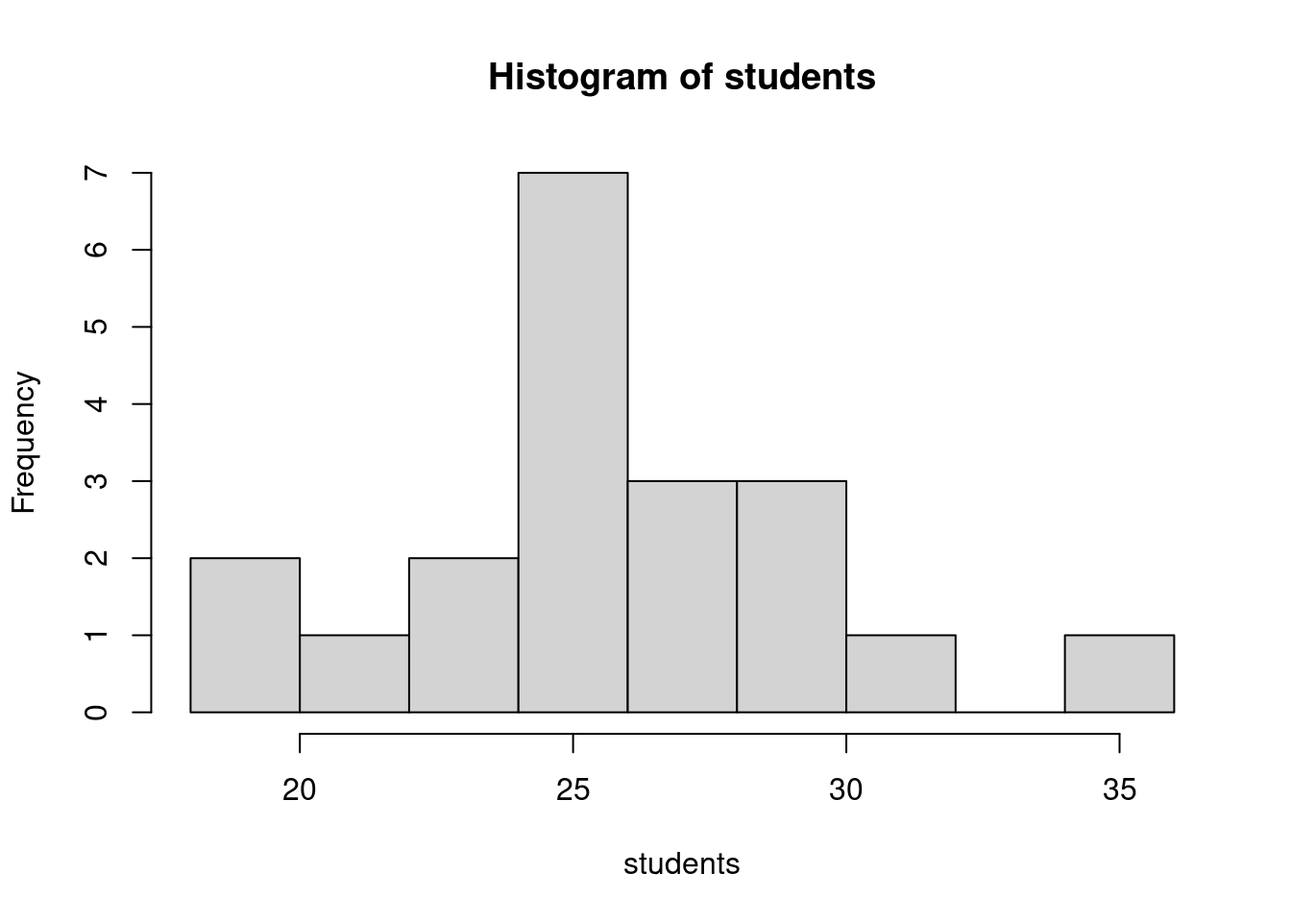
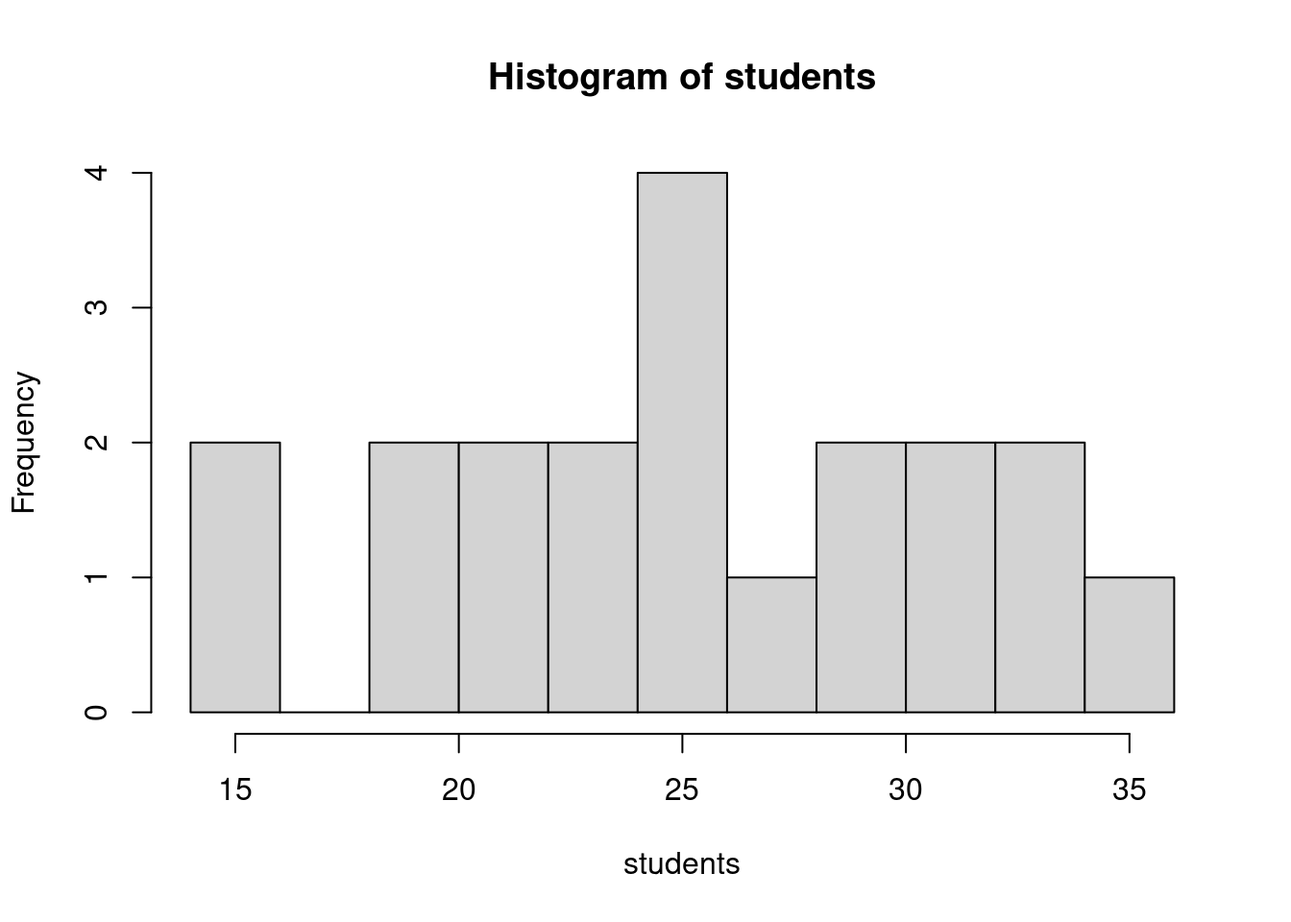
Updates for categorical data

diff --git a/_book/what-is-statistics.html b/_book/what-is-statistics.html
@@ -24,7 +24,7 @@
 <meta name="author" content="Virgil U Pierce" />
 
 
-<meta name="date" content="2021-05-07" />
+<meta name="date" content="2021-05-11" />
 
   <meta name="viewport" content="width=device-width, initial-scale=1" />
   <meta name="apple-mobile-web-app-capable" content="yes" />
@@ -168,7 +168,13 @@ code span.wa { color: #60a0b0; font-weight: bold; font-style: italic; } /* Warni
 <li class="chapter" data-level="3.2.1" data-path="what-is-statistics.html"><a href="what-is-statistics.html#histograms"><i class="fa fa-check"></i><b>3.2.1</b> Histograms</a></li>
 <li class="chapter" data-level="3.2.2" data-path="what-is-statistics.html"><a href="what-is-statistics.html#boxplot"><i class="fa fa-check"></i><b>3.2.2</b> BoxPlot</a></li>
 </ul></li>
-<li class="chapter" data-level="3.3" data-path="what-is-statistics.html"><a href="what-is-statistics.html#numerical-versus-categorical-data"><i class="fa fa-check"></i><b>3.3</b> Numerical versus Categorical Data</a></li>
+<li class="chapter" data-level="3.3" data-path="what-is-statistics.html"><a href="what-is-statistics.html#numerical-versus-categorical-data"><i class="fa fa-check"></i><b>3.3</b> Numerical versus Categorical Data</a>
+<ul>
+<li class="chapter" data-level="3.3.1" data-path="what-is-statistics.html"><a href="what-is-statistics.html#list-of-features"><i class="fa fa-check"></i><b>3.3.1</b> List of features</a></li>
+<li class="chapter" data-level="3.3.2" data-path="what-is-statistics.html"><a href="what-is-statistics.html#frequencies"><i class="fa fa-check"></i><b>3.3.2</b> Frequencies</a></li>
+<li class="chapter" data-level="3.3.3" data-path="what-is-statistics.html"><a href="what-is-statistics.html#proportions"><i class="fa fa-check"></i><b>3.3.3</b> Proportions</a></li>
+<li class="chapter" data-level="3.3.4" data-path="what-is-statistics.html"><a href="what-is-statistics.html#charts"><i class="fa fa-check"></i><b>3.3.4</b> Charts</a></li>
+</ul></li>
 </ul></li>
 </ul>
 
@@ -203,6 +209,7 @@ code span.wa { color: #60a0b0; font-weight: bold; font-style: italic; } /* Warni
 <li>R is a purpose built statistics software. It is designed to do that really well.</li>
 <li>R arguably is the best tool for producing good looking figures suitable for publications. The figures are easy to manipulate and adjust. Most importantly it is really easy to have your figures be consistently formatted, something that is much harder with spreadsheets.</li>
 <li>R includes a markdown language for creating nice looking notebooks: It can be used as an all in one publication tool to produce a report or paper with statistical analysis.</li>
+<li>The markdown language includes LaTex for typsetting mathematics: <span class="math display">\[ \int_a^b f(x) dx \]</span></li>
 <li>R is an industry standard tool for doing statistics.</li>
 </ul>
 <p>and most importantly</p>
@@ -215,7 +222,7 @@ code span.wa { color: #60a0b0; font-weight: bold; font-style: italic; } /* Warni
 <p>To get started:</p>
 <ol style="list-style-type: decimal">
 <li><p><strong>If you are using a Mac or PC</strong> you should download a copy of RStudio from <a href="https://www.rstudio.com/products/rstudio/" class="uri">https://www.rstudio.com/products/rstudio/</a> the free version is all you will need. This includes a copy of R itself - Rstudio is a tool for interacting with R to make some of our tasks easier.</p></li>
-<li><p><strong>If you are using a Chromebook or want to use R on a tablet</strong> I have two options for you:</p></li>
+<li><p><strong>If you are using a Chromebook, want to use R on a tablet, or just don’t want to install it</strong> I have two options for you:</p></li>
 </ol>
 <ol style="list-style-type: lower-alpha">
 <li>Cocalc provides an online interface that lets you issue R commands. It also includes a markdown language so you will be able to use it to prepare the documents for class. You can reach it here: <a href="https://cocalc.com/" class="uri">https://cocalc.com/</a> you will need to create an account.</li>
@@ -231,13 +238,13 @@ code span.wa { color: #60a0b0; font-weight: bold; font-style: italic; } /* Warni
 <li>an easy way to save your work to return to it later or to copy and paste it to a new notebook.</li>
 <li>the ability to add markdown explaining what you are doing.</li>
 </ul>
-<p>The button on the top-left of the tool bar is for openning new documents, click the triangle next to it and choose “New Notebook” form the menu. RStudio helpfully inserts some information setting up your new notebook. You can adjust it as you wish. You can save the document from the file menu or using the toolbar buttons. RStudio has provided an example of how to put in Markdown language, and how to put in R commands. You execute a section of R commands but putting the cursor inside of it and pressing “Control+Enter”. Try it now on the <em>plot(cars)</em> command.</p>
+<p>The button on the top-left of the tool bar is for openning new documents, click the triangle next to it and choose “New Notebook” form the menu. RStudio helpfully inserts some information setting up your new notebook. You can adjust it as you wish. You can save the document from the file menu or using the toolbar buttons. RStudio has provided an example of how to put in Markdown language, and how to put in R commands. You execute a section of R commands but putting the cursor inside of it and pressing “Control+Enter” (or on a mac “Command+Enter”, if using Cocalc you will need to press “Shift+Enter”). Try it now on the <em>plot(cars)</em> command.</p>
 <div class="sourceCode" id="cb2"><pre class="sourceCode r"><code class="sourceCode r"><span id="cb2-1"><a href="what-is-statistics.html#cb2-1" aria-hidden="true" tabindex="-1"></a><span class="fu">plot</span>(cars)</span></code></pre></div>
 <p><img src="_main_files/figure-html/unnamed-chunk-2-1.png" width="672" /></p>
 </div>
 <div id="a-few-words-about-programming-languages" class="section level3" number="3.1.3">
 <h3><span class="header-section-number">3.1.3</span> A few words about programming languages</h3>
-<p>Before we continue with the <em>Probability and Statistics</em> I want to just add that learning programming languages is a powerful tool to help your students advance in their thinking about mathematics, one that I worry we do not spend enough time working with students on. At UNC one of my main goals for my tenure as School Director is to incorporate Python and R into the undergraduate mathematics curriculum wherever we can. A key part of learning a programming language, or more accurately, the only thing that has ever worked for me is having a problem I am interested in that needs solving. Statistics for myself, I hope for you by the end of this course, and for your students could be that problem that motivates learning some programing.</p>
+<p>Before we continue with the <em>Probability and Statistics</em> I want to just add that learning programming languages is a powerful tool to help your students advance in their thinking about mathematics, one that I worry we do not spend enough time working with students on. At UNC one of my main goals for my tenure as School Director is to incorporate Python and R into the undergraduate mathematics curriculum wherever we can. A key part of learning a programming language, or more accurately, the only thing that has ever worked for me is having a problem I am interested in that needs solving. Statistics for myself, I hope for you by the end of this course, and for your students could be that problem that motivates learning some programming.</p>
 <p>Independently of all of that R is a great language to start with for the following reasons:</p>
 <ol style="list-style-type: decimal">
 <li>Because R is so fundamentally focused on statistics and visualizations of data, it is simpler and more compact than a general language.</li>
@@ -257,22 +264,23 @@ While I am collecting this data you can reflect on this funny musing. I grew up 
 <span id="cb3-5"><a href="what-is-statistics.html#cb3-5" aria-hidden="true" tabindex="-1"></a><span class="co"># students &lt;- {} </span></span>
 <span id="cb3-6"><a href="what-is-statistics.html#cb3-6" aria-hidden="true" tabindex="-1"></a></span>
 <span id="cb3-7"><a href="what-is-statistics.html#cb3-7" aria-hidden="true" tabindex="-1"></a>students</span></code></pre></div>
-<pre><code>##  [1] 25 25 30 19 23 31 29 27 20 26 26 25 25 23 30 35 28 25 22 27</code></pre>
+<pre><code>##  [1] 31 26 19 21 34 14 30 19 26 33 25 21 36 27 14 31 26 23 29 24</code></pre>
 <p><em>R Notes</em>: lists in R are enclosed in <em>curly braces</em> and each member of the list is separated by a <em>semi-colon</em> or a space; note I think leaving the space is bad practice and recommend not using that feature. In this case our list is a collection of integers. Lists can more generally be numbers or strings or even lists of lists.</p>
 <p>Comments in commands start with <em>hash symbols</em>.</p>
-<p>Another syntax note: R uses both = and &lt;- for assignment. They both work as you would expect, however &lt;- has some nice positives in the detailed differences and it is worth getting into the habit of using it.</p>
+<p>Another syntax note: R uses both = and &lt;- for assignment though they have slightly different meanings. They both work as you would expect, however &lt;- has some nice positives in the detailed differences and it is worth getting into the habit of using it.</p>
 <p><em>RStudio Note</em>: You might notice that the variable we have just created has appeared in the upper-right quadrant of RStudio.</p>
 <div id="summary-statistics" class="section level4" number="3.1.4.1">
 <h4><span class="header-section-number">3.1.4.1</span> Summary Statistics</h4>
 <p>To get started we can use <em>summary</em> to get an overview of what our list of student enrollments look like. Review the meaning of each of these.</p>
 <div class="sourceCode" id="cb5"><pre class="sourceCode r"><code class="sourceCode r"><span id="cb5-1"><a href="what-is-statistics.html#cb5-1" aria-hidden="true" tabindex="-1"></a><span class="fu">summary</span>(students)</span></code></pre></div>
 <pre><code>##    Min. 1st Qu.  Median    Mean 3rd Qu.    Max. 
-##   19.00   24.50   25.50   26.05   28.25   35.00</code></pre>
+##   14.00   21.00   26.00   25.45   30.25   36.00</code></pre>
 <p>Mean and Median are <em>measures of center</em>, while the quartiles are <em>measures of spread</em>. One measure of spread missing is the variance or its square root standard deviation:</p>
 <div class="sourceCode" id="cb7"><pre class="sourceCode r"><code class="sourceCode r"><span id="cb7-1"><a href="what-is-statistics.html#cb7-1" aria-hidden="true" tabindex="-1"></a><span class="fu">var</span>(students); <span class="fu">sqrt</span>(<span class="fu">var</span>(students))</span></code></pre></div>
-<pre><code>## [1] 14.57632</code></pre>
-<pre><code>## [1] 3.817894</code></pre>
-<p>The variance is computed by taking the sum of the square differences between the data and the mean and then dividing that by number of items minus one; we will explain why this is what we divide by later in class.</p>
+<pre><code>## [1] 38.57632</code></pre>
+<pre><code>## [1] 6.210983</code></pre>
+<p>The variance is computed by taking the sum of the square differences between the data and the mean and then dividing that by number of items minus one; we will explain why this is what we divide by later in class:
+<span class="math display">\[ S = \frac{1}{n-1} \sum_{j=1}^n (y_j - \bar{y} )^2 \]</span> where <span class="math inline">\(\bar{y}\)</span> is the mean of the sample made up of the <span class="math inline">\(\{ y_1, y_2, \dots, y_n \}\)</span>.</p>
 <p>In the code blocks below I will add some comments about what we are doing:</p>
 <div class="sourceCode" id="cb10"><pre class="sourceCode r"><code class="sourceCode r"><span id="cb10-1"><a href="what-is-statistics.html#cb10-1" aria-hidden="true" tabindex="-1"></a><span class="co"># define a variable for the mean we will consistently use bar for sample mean</span></span>
 <span id="cb10-2"><a href="what-is-statistics.html#cb10-2" aria-hidden="true" tabindex="-1"></a><span class="co"># again note I use the &lt;- assignment rather than =</span></span>
@@ -280,15 +288,17 @@ While I am collecting this data you can reflect on this funny musing. I grew up 
 <span id="cb10-4"><a href="what-is-statistics.html#cb10-4" aria-hidden="true" tabindex="-1"></a></span>
 <span id="cb10-5"><a href="what-is-statistics.html#cb10-5" aria-hidden="true" tabindex="-1"></a><span class="co"># R can then do the arithmetic and when we combine a list of numbers with a single number and square it, it knows what we mean.</span></span>
 <span id="cb10-6"><a href="what-is-statistics.html#cb10-6" aria-hidden="true" tabindex="-1"></a>(students <span class="sc">-</span> ybar)<span class="sc">^</span><span class="dv">2</span></span></code></pre></div>
-<pre><code>##  [1]  1.1025  1.1025 15.6025 49.7025  9.3025 24.5025  8.7025  0.9025 36.6025  0.0025  0.0025  1.1025  1.1025  9.3025 15.6025 80.1025  3.8025  1.1025 16.4025  0.9025</code></pre>
+<pre><code>##  [1]  30.8025   0.3025  41.6025  19.8025  73.1025 131.1025  20.7025  41.6025
+##  [9]   0.3025  57.0025   0.2025  19.8025 111.3025   2.4025 131.1025  30.8025
+## [17]   0.3025   6.0025  12.6025   2.1025</code></pre>
 <div class="sourceCode" id="cb12"><pre class="sourceCode r"><code class="sourceCode r"><span id="cb12-1"><a href="what-is-statistics.html#cb12-1" aria-hidden="true" tabindex="-1"></a><span class="co"># Then as we said, we sum over all of these and then divide by the number of them</span></span>
 <span id="cb12-2"><a href="what-is-statistics.html#cb12-2" aria-hidden="true" tabindex="-1"></a><span class="co"># minus 1</span></span>
 <span id="cb12-3"><a href="what-is-statistics.html#cb12-3" aria-hidden="true" tabindex="-1"></a></span>
 <span id="cb12-4"><a href="what-is-statistics.html#cb12-4" aria-hidden="true" tabindex="-1"></a><span class="fu">sum</span>( (students <span class="sc">-</span> ybar)<span class="sc">^</span><span class="dv">2</span> ) <span class="sc">/</span> ( <span class="fu">length</span>(students) <span class="sc">-</span> <span class="dv">1</span> )</span></code></pre></div>
-<pre><code>## [1] 14.57632</code></pre>
+<pre><code>## [1] 38.57632</code></pre>
 <p>Note why we compute variance in this way. We are trying to understand how far the data moves from the mean <span class="math inline">\(\bar{y}\)</span>. However we can’t just sum over the differences as that will just add up to zero:</p>
 <div class="sourceCode" id="cb14"><pre class="sourceCode r"><code class="sourceCode r"><span id="cb14-1"><a href="what-is-statistics.html#cb14-1" aria-hidden="true" tabindex="-1"></a><span class="fu">sum</span>(students <span class="sc">-</span> ybar )</span></code></pre></div>
-<pre><code>## [1] -1.421085e-14</code></pre>
+<pre><code>## [1] 1.421085e-14</code></pre>
 <p>We have choices though, we could sum over the absolute value and indeed that does give us a notion of spread. However the advantage of summing over the squares is that it brings in tools from Calculus that work with quadratic expressions but not with absolute value expressions. We then intend to take an average. For reasons we will justify later, it turns out the correct average to do is to divide by the size of our sample minus 1: <span class="math inline">\(n-1\)</span> is called the degrees of freedom (roughly computing <span class="math inline">\(\bar{y}\)</span> from the sample has used up one degree of freedom).</p>
 <p>Note the units on these two statistics: the variance is the average of the sum of the squares (by the number of degrees of freedom) so its units are the square of the units of our sample data (<em>students squared</em> in this case); and then the standard deviation is the square root of the variance and so has units of the original data (<em>students</em> in this case).</p>
 </div>
@@ -317,29 +327,140 @@ While I am collecting this data you can reflect on this funny musing. I grew up 
 <div id="numerical-versus-categorical-data" class="section level2" number="3.3">
 <h2><span class="header-section-number">3.3</span> Numerical versus Categorical Data</h2>
 <p>The class sizes data is an example of <em>numerical data</em>. Another type of data used frequently is <em>categorical cata</em>:</p>
-<p>Note if you are running this code, you will need to download the “Supermarket Transactions.xlsx” file from Github or here. We will also need to use the tidy package. You may need to install this package using</p>
-<div class="sourceCode" id="cb19"><pre class="sourceCode r"><code class="sourceCode r"><span id="cb19-1"><a href="what-is-statistics.html#cb19-1" aria-hidden="true" tabindex="-1"></a><span class="fu">install.packages</span>(<span class="st">&quot;tidyverse&quot;</span>);</span></code></pre></div>
-<pre><code>## Error in install.packages : Updating loaded packages</code></pre>
-<p>Then you will need to load the package:</p>
-<div class="sourceCode" id="cb21"><pre class="sourceCode r"><code class="sourceCode r"><span id="cb21-1"><a href="what-is-statistics.html#cb21-1" aria-hidden="true" tabindex="-1"></a><span class="fu">library</span>(readxl)</span>
-<span id="cb21-2"><a href="what-is-statistics.html#cb21-2" aria-hidden="true" tabindex="-1"></a><span class="fu">library</span>(ggplot2)</span></code></pre></div>
-<div class="sourceCode" id="cb22"><pre class="sourceCode r"><code class="sourceCode r"><span id="cb22-1"><a href="what-is-statistics.html#cb22-1" aria-hidden="true" tabindex="-1"></a>supermarket <span class="ot">&lt;-</span> <span class="fu">read_excel</span>(<span class="st">&quot;Supermarket Transactions.xlsx&quot;</span>, <span class="at">sheet =</span> <span class="dv">2</span>)</span>
-<span id="cb22-2"><a href="what-is-statistics.html#cb22-2" aria-hidden="true" tabindex="-1"></a>supermarket</span></code></pre></div>
+<p>Note if you are running this code, you will need to download the “Supermarket Transactions.xlsx” file from Github or here. We will also need to use the tidy package. You may need to install this package using <em>install.packages(“tidyverse”)</em>. Credit to UC Business Analytics R Programming Guide for this section, you can find the source here <a href="https://uc-r.github.io/descriptives_categorical" class="uri">https://uc-r.github.io/descriptives_categorical</a></p>
+<p>Then you will need to load the libraries:</p>
+<div class="sourceCode" id="cb19"><pre class="sourceCode r"><code class="sourceCode r"><span id="cb19-1"><a href="what-is-statistics.html#cb19-1" aria-hidden="true" tabindex="-1"></a><span class="fu">library</span>(readxl) <span class="co"># for reading Excel files</span></span>
+<span id="cb19-2"><a href="what-is-statistics.html#cb19-2" aria-hidden="true" tabindex="-1"></a><span class="fu">library</span>(ggplot2) <span class="co"># for making nice plots - part of the tidyverse</span></span></code></pre></div>
+<div class="sourceCode" id="cb20"><pre class="sourceCode r"><code class="sourceCode r"><span id="cb20-1"><a href="what-is-statistics.html#cb20-1" aria-hidden="true" tabindex="-1"></a>supermarket <span class="ot">&lt;-</span> <span class="fu">read_excel</span>(<span class="st">&quot;Supermarket Transactions.xlsx&quot;</span>, <span class="at">sheet =</span> <span class="dv">2</span>)</span>
+<span id="cb20-2"><a href="what-is-statistics.html#cb20-2" aria-hidden="true" tabindex="-1"></a>supermarket</span></code></pre></div>
 <pre><code>## # A tibble: 14,059 x 16
-##    Transaction `Purchase Date`     `Customer ID` Gender `Marital Status` Homeowner Children `Annual Income` City    `State or Provin… Country `Product Family` `Product Depart… `Product Catego…
-##          &lt;dbl&gt; &lt;dttm&gt;                      &lt;dbl&gt; &lt;chr&gt;  &lt;chr&gt;            &lt;chr&gt;        &lt;dbl&gt; &lt;chr&gt;           &lt;chr&gt;   &lt;chr&gt;             &lt;chr&gt;   &lt;chr&gt;            &lt;chr&gt;            &lt;chr&gt;           
-##  1           1 2011-12-18 00:00:00          7223 F      S                Y                2 $30K - $50K     Los An… CA                USA     Food             Snack Foods      Snack Foods     
-##  2           2 2011-12-20 00:00:00          7841 M      M                Y                5 $70K - $90K     Los An… CA                USA     Food             Produce          Vegetables      
-##  3           3 2011-12-21 00:00:00          8374 F      M                N                2 $50K - $70K     Bremer… WA                USA     Food             Snack Foods      Snack Foods     
-##  4           4 2011-12-21 00:00:00          9619 M      M                Y                3 $30K - $50K     Portla… OR                USA     Food             Snacks           Candy           
-##  5           5 2011-12-22 00:00:00          1900 F      S                Y                3 $130K - $150K   Beverl… CA                USA     Drink            Beverages        Carbonated Beve…
-##  6           6 2011-12-22 00:00:00          6696 F      M                Y                3 $10K - $30K     Beverl… CA                USA     Food             Deli             Side Dishes     
-##  7           7 2011-12-23 00:00:00          9673 M      S                Y                2 $30K - $50K     Salem   OR                USA     Food             Frozen Foods     Breakfast Foods 
-##  8           8 2011-12-25 00:00:00           354 F      M                Y                2 $150K +         Yakima  WA                USA     Food             Canned Foods     Canned Soup     
-##  9           9 2011-12-25 00:00:00          1293 M      M                Y                3 $10K - $30K     Bellin… WA                USA     Non-Consumable   Household        Cleaning Suppli…
-## 10          10 2011-12-25 00:00:00          7938 M      S                N                1 $50K - $70K     San Di… CA                USA     Non-Consumable   Health and Hygi… Pain Relievers  
-## # … with 14,049 more rows, and 2 more variables: Units Sold &lt;dbl&gt;, Revenue &lt;dbl&gt;</code></pre>
+##    Transaction `Purchase Date`     `Customer ID` Gender `Marital Status`
+##          &lt;dbl&gt; &lt;dttm&gt;                      &lt;dbl&gt; &lt;chr&gt;  &lt;chr&gt;           
+##  1           1 2011-12-18 00:00:00          7223 F      S               
+##  2           2 2011-12-20 00:00:00          7841 M      M               
+##  3           3 2011-12-21 00:00:00          8374 F      M               
+##  4           4 2011-12-21 00:00:00          9619 M      M               
+##  5           5 2011-12-22 00:00:00          1900 F      S               
+##  6           6 2011-12-22 00:00:00          6696 F      M               
+##  7           7 2011-12-23 00:00:00          9673 M      S               
+##  8           8 2011-12-25 00:00:00           354 F      M               
+##  9           9 2011-12-25 00:00:00          1293 M      M               
+## 10          10 2011-12-25 00:00:00          7938 M      S               
+## # … with 14,049 more rows, and 11 more variables: Homeowner &lt;chr&gt;,
+## #   Children &lt;dbl&gt;, Annual Income &lt;chr&gt;, City &lt;chr&gt;, State or Province &lt;chr&gt;,
+## #   Country &lt;chr&gt;, Product Family &lt;chr&gt;, Product Department &lt;chr&gt;,
+## #   Product Category &lt;chr&gt;, Units Sold &lt;dbl&gt;, Revenue &lt;dbl&gt;</code></pre>
+<p>A couple of notes are in order here before we continue: Note that this data set is made up of samples (rows) each of which has 10 features (columns). Some of the features are numerical - <em>Units Sold</em> and <em>Revenue</em>, some could be converted into numerical units if we are careful <em>Annual Income</em>, while others are purely categorical giving us just a description of the value. Also note there is a factor that looks numerical but for which it would probably be misleading to treat it as such.</p>
+<p>You will notice the note that the data set has ~14,049 rows: We can only deal with such datasets using a computer program. Without too much work we could find datasets that are too big for Excell and need to be analyzed using a software like R or Python.</p>
+<div id="list-of-features" class="section level3" number="3.3.1">
+<h3><span class="header-section-number">3.3.1</span> List of features</h3>
+<p>With a large data set it is helpful to list the the features we have:</p>
+<div class="sourceCode" id="cb22"><pre class="sourceCode r"><code class="sourceCode r"><span id="cb22-1"><a href="what-is-statistics.html#cb22-1" aria-hidden="true" tabindex="-1"></a><span class="fu">colnames</span>(supermarket)</span></code></pre></div>
+<pre><code>##  [1] &quot;Transaction&quot;        &quot;Purchase Date&quot;      &quot;Customer ID&quot;       
+##  [4] &quot;Gender&quot;             &quot;Marital Status&quot;     &quot;Homeowner&quot;         
+##  [7] &quot;Children&quot;           &quot;Annual Income&quot;      &quot;City&quot;              
+## [10] &quot;State or Province&quot;  &quot;Country&quot;            &quot;Product Family&quot;    
+## [13] &quot;Product Department&quot; &quot;Product Category&quot;   &quot;Units Sold&quot;        
+## [16] &quot;Revenue&quot;</code></pre>
+<p>We can use <em>sapply</em> to get information about the datatypes R has guessed for each column.</p>
+<div class="sourceCode" id="cb24"><pre class="sourceCode r"><code class="sourceCode r"><span id="cb24-1"><a href="what-is-statistics.html#cb24-1" aria-hidden="true" tabindex="-1"></a><span class="fu">sapply</span>(supermarket, class)</span></code></pre></div>
+<pre><code>## $Transaction
+## [1] &quot;numeric&quot;
+## 
+## $`Purchase Date`
+## [1] &quot;POSIXct&quot; &quot;POSIXt&quot; 
+## 
+## $`Customer ID`
+## [1] &quot;numeric&quot;
+## 
+## $Gender
+## [1] &quot;character&quot;
+## 
+## $`Marital Status`
+## [1] &quot;character&quot;
+## 
+## $Homeowner
+## [1] &quot;character&quot;
+## 
+## $Children
+## [1] &quot;numeric&quot;
+## 
+## $`Annual Income`
+## [1] &quot;character&quot;
+## 
+## $City
+## [1] &quot;character&quot;
+## 
+## $`State or Province`
+## [1] &quot;character&quot;
+## 
+## $Country
+## [1] &quot;character&quot;
+## 
+## $`Product Family`
+## [1] &quot;character&quot;
+## 
+## $`Product Department`
+## [1] &quot;character&quot;
+## 
+## $`Product Category`
+## [1] &quot;character&quot;
+## 
+## $`Units Sold`
+## [1] &quot;numeric&quot;
+## 
+## $Revenue
+## [1] &quot;numeric&quot;</code></pre>
+<p>Note I say that these are guesses. Depending on the spreadsheet the data came from these may or may not be correct. In particular it is not uncommon for numerical data to be incorrectly types as <em>character</em> data. R is effecient at cleaning data, however it is a step further than we want to go in this class, just be aware if you or your students start using data sets from the web you will often come upon this issue.</p>
+</div>
+<div id="frequencies" class="section level3" number="3.3.2">
+<h3><span class="header-section-number">3.3.2</span> Frequencies</h3>
+<p>We are going to make a contingency table for some of the features of this data. We can count how many members of the sample are in each category of a feature:</p>
+<div class="sourceCode" id="cb26"><pre class="sourceCode r"><code class="sourceCode r"><span id="cb26-1"><a href="what-is-statistics.html#cb26-1" aria-hidden="true" tabindex="-1"></a><span class="fu">table</span>(supermarket<span class="sc">$</span>Gender)</span></code></pre></div>
+<pre><code>## 
+##    F    M 
+## 7170 6889</code></pre>
+<p>Maybe we want to understand the relationship between the gender of a shopper and their marital status, for this we use a cross classification count:</p>
+<div class="sourceCode" id="cb28"><pre class="sourceCode r"><code class="sourceCode r"><span id="cb28-1"><a href="what-is-statistics.html#cb28-1" aria-hidden="true" tabindex="-1"></a><span class="co"># Note that because the feature Marital Status has a space in it, we have to use quotes to refer to it:</span></span>
+<span id="cb28-2"><a href="what-is-statistics.html#cb28-2" aria-hidden="true" tabindex="-1"></a><span class="fu">table</span>( supermarket<span class="sc">$</span><span class="st">`</span><span class="at">Marital Status</span><span class="st">`</span>, supermarket<span class="sc">$</span>Gender) </span></code></pre></div>
+<pre><code>##    
+##        F    M
+##   M 3602 3264
+##   S 3568 3625</code></pre>
+<p>We can even do multi dimensional tables, though there is a limit to what makes sense:</p>
+<div class="sourceCode" id="cb30"><pre class="sourceCode r"><code class="sourceCode r"><span id="cb30-1"><a href="what-is-statistics.html#cb30-1" aria-hidden="true" tabindex="-1"></a><span class="co"># Here to make this easier to read we are going to do the operation in two separate commands; </span></span>
+<span id="cb30-2"><a href="what-is-statistics.html#cb30-2" aria-hidden="true" tabindex="-1"></a><span class="co"># note the semi-colon indicating the end of the first command</span></span>
+<span id="cb30-3"><a href="what-is-statistics.html#cb30-3" aria-hidden="true" tabindex="-1"></a>table1 <span class="ot">&lt;-</span> <span class="fu">table</span>(supermarket<span class="sc">$</span><span class="st">`</span><span class="at">Marital Status</span><span class="st">`</span>, supermarket<span class="sc">$</span>Gender, supermarket<span class="sc">$</span><span class="st">`</span><span class="at">State or Province</span><span class="st">`</span>);</span>
+<span id="cb30-4"><a href="what-is-statistics.html#cb30-4" aria-hidden="true" tabindex="-1"></a></span>
+<span id="cb30-5"><a href="what-is-statistics.html#cb30-5" aria-hidden="true" tabindex="-1"></a><span class="fu">ftable</span>(table1)</span></code></pre></div>
+<pre><code>##        BC   CA   DF Guerrero Jalisco   OR Veracruz   WA Yucatan Zacatecas
+##                                                                          
+## M F   190  638  188       77      15  510      142 1166     200       476
+##   M   197  692  210       94       5  514      108 1160     129       155
+## S F   183  686  175      107      30  607      125 1134     164       357
+##   M   239  717  242      105      25  631       89 1107     161       309</code></pre>
+</div>
+<div id="proportions" class="section level3" number="3.3.3">
+<h3><span class="header-section-number">3.3.3</span> Proportions</h3>
+<p>Of course it is useful to think in terms of proportions of the data rather than the raw counts. We can do this by sending the result of a table command through the prop.table. Try it with one of the tables above:</p>
+<div class="sourceCode" id="cb32"><pre class="sourceCode r"><code class="sourceCode r"><span id="cb32-1"><a href="what-is-statistics.html#cb32-1" aria-hidden="true" tabindex="-1"></a>table2 <span class="ot">&lt;-</span> <span class="fu">table</span>(supermarket<span class="sc">$</span><span class="st">`</span><span class="at">Marital Status</span><span class="st">`</span>, supermarket<span class="sc">$</span>Gender);</span>
+<span id="cb32-2"><a href="what-is-statistics.html#cb32-2" aria-hidden="true" tabindex="-1"></a></span>
+<span id="cb32-3"><a href="what-is-statistics.html#cb32-3" aria-hidden="true" tabindex="-1"></a><span class="fu">prop.table</span>(table2)</span></code></pre></div>
+<pre><code>##    
+##             F         M
+##   M 0.2562060 0.2321644
+##   S 0.2537876 0.2578420</code></pre>
+</div>
+<div id="charts" class="section level3" number="3.3.4">
+<h3><span class="header-section-number">3.3.4</span> Charts</h3>
+<p>Visualizations are straightforward, a typical one would be a bar chart indicating visually the frequency counts:</p>
+<div class="sourceCode" id="cb34"><pre class="sourceCode r"><code class="sourceCode r"><span id="cb34-1"><a href="what-is-statistics.html#cb34-1" aria-hidden="true" tabindex="-1"></a><span class="co"># Note in this one the direction of the quotes matter</span></span>
+<span id="cb34-2"><a href="what-is-statistics.html#cb34-2" aria-hidden="true" tabindex="-1"></a><span class="fu">ggplot</span>(supermarket) <span class="sc">+</span> <span class="fu">geom_bar</span>(<span class="at">mapping =</span> <span class="fu">aes</span>(<span class="at">x=</span><span class="st">`</span><span class="at">State or Province</span><span class="st">`</span>)) <span class="sc">+</span> </span>
+<span id="cb34-3"><a href="what-is-statistics.html#cb34-3" aria-hidden="true" tabindex="-1"></a>  <span class="fu">theme</span>(<span class="at">axis.text.x=</span><span class="fu">element_text</span>(<span class="at">angle=</span><span class="dv">45</span>, <span class="at">hjust=</span><span class="dv">1</span>))</span></code></pre></div>
+<p><img src="_main_files/figure-html/unnamed-chunk-19-1.png" width="672" /></p>
+<p>Note that the labels, colors, and positions can all be set via commands.</p>
 
+</div>
 </div>
 </div>
             </section>

diff --git a/_book/index.html b/_book/index.html
@@ -24,7 +24,7 @@
 <meta name="author" content="Virgil U Pierce" />
 
 
-<meta name="date" content="2021-05-07" />
+<meta name="date" content="2021-05-11" />
 
   <meta name="viewport" content="width=device-width, initial-scale=1" />
   <meta name="apple-mobile-web-app-capable" content="yes" />
@@ -168,7 +168,13 @@ code span.wa { color: #60a0b0; font-weight: bold; font-style: italic; } /* Warni
 <li class="chapter" data-level="3.2.1" data-path="what-is-statistics.html"><a href="what-is-statistics.html#histograms"><i class="fa fa-check"></i><b>3.2.1</b> Histograms</a></li>
 <li class="chapter" data-level="3.2.2" data-path="what-is-statistics.html"><a href="what-is-statistics.html#boxplot"><i class="fa fa-check"></i><b>3.2.2</b> BoxPlot</a></li>
 </ul></li>
-<li class="chapter" data-level="3.3" data-path="what-is-statistics.html"><a href="what-is-statistics.html#numerical-versus-categorical-data"><i class="fa fa-check"></i><b>3.3</b> Numerical versus Categorical Data</a></li>
+<li class="chapter" data-level="3.3" data-path="what-is-statistics.html"><a href="what-is-statistics.html#numerical-versus-categorical-data"><i class="fa fa-check"></i><b>3.3</b> Numerical versus Categorical Data</a>
+<ul>
+<li class="chapter" data-level="3.3.1" data-path="what-is-statistics.html"><a href="what-is-statistics.html#list-of-features"><i class="fa fa-check"></i><b>3.3.1</b> List of features</a></li>
+<li class="chapter" data-level="3.3.2" data-path="what-is-statistics.html"><a href="what-is-statistics.html#frequencies"><i class="fa fa-check"></i><b>3.3.2</b> Frequencies</a></li>
+<li class="chapter" data-level="3.3.3" data-path="what-is-statistics.html"><a href="what-is-statistics.html#proportions"><i class="fa fa-check"></i><b>3.3.3</b> Proportions</a></li>
+<li class="chapter" data-level="3.3.4" data-path="what-is-statistics.html"><a href="what-is-statistics.html#charts"><i class="fa fa-check"></i><b>3.3.4</b> Charts</a></li>
+</ul></li>
 </ul></li>
 </ul>
 
@@ -190,7 +196,7 @@ code span.wa { color: #60a0b0; font-weight: bold; font-style: italic; } /* Warni
 <div id="header">
 <h1 class="title">MATH 550 - Applied Probability and Statistics</h1>
 <p class="author"><em>Virgil U Pierce</em></p>
-<p class="date" style="margin-top: 1.5em;"><em>2021-05-07</em></p>
+<p class="date" style="margin-top: 1.5em;"><em>2021-05-11</em></p>
 </div>
 <div id="introduction" class="section level1" number="1">
 <h1><span class="header-section-number">1</span> Introduction</h1>
@@ -254,20 +260,6 @@ gitbook.start({
 });
 </script>
 
-<!-- dynamically load mathjax for compatibility with self-contained -->
-<script>
-  (function () {
-    var script = document.createElement("script");
-    script.type = "text/javascript";
-    var src = "true";
-    if (src === "" || src === "true") src = "https://mathjax.rstudio.com/latest/MathJax.js?config=TeX-MML-AM_CHTML";
-    if (location.protocol !== "file:")
-      if (/^https?:/.test(src))
-        src = src.replace(/^https?:/, '');
-    script.src = src;
-    document.getElementsByTagName("head")[0].appendChild(script);
-  })();
-</script>
 </body>
 
 </html>

diff --git a/_book/course-syllabus.html b/_book/course-syllabus.html
@@ -24,7 +24,7 @@
 <meta name="author" content="Virgil U Pierce" />
 
 
-<meta name="date" content="2021-05-07" />
+<meta name="date" content="2021-05-11" />
 
   <meta name="viewport" content="width=device-width, initial-scale=1" />
   <meta name="apple-mobile-web-app-capable" content="yes" />
